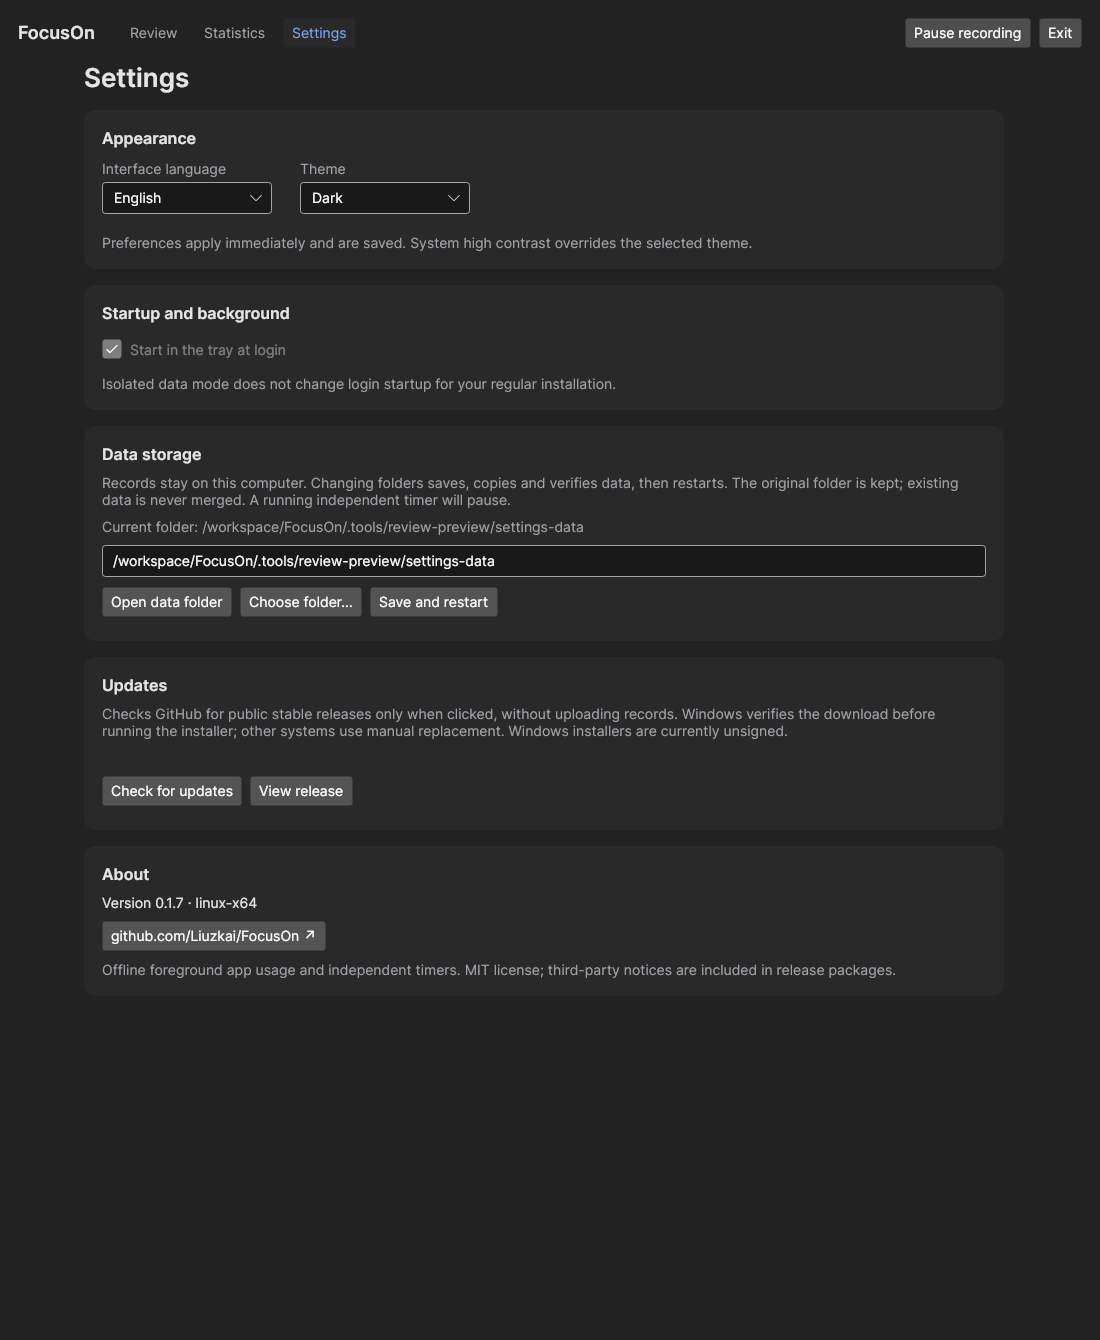
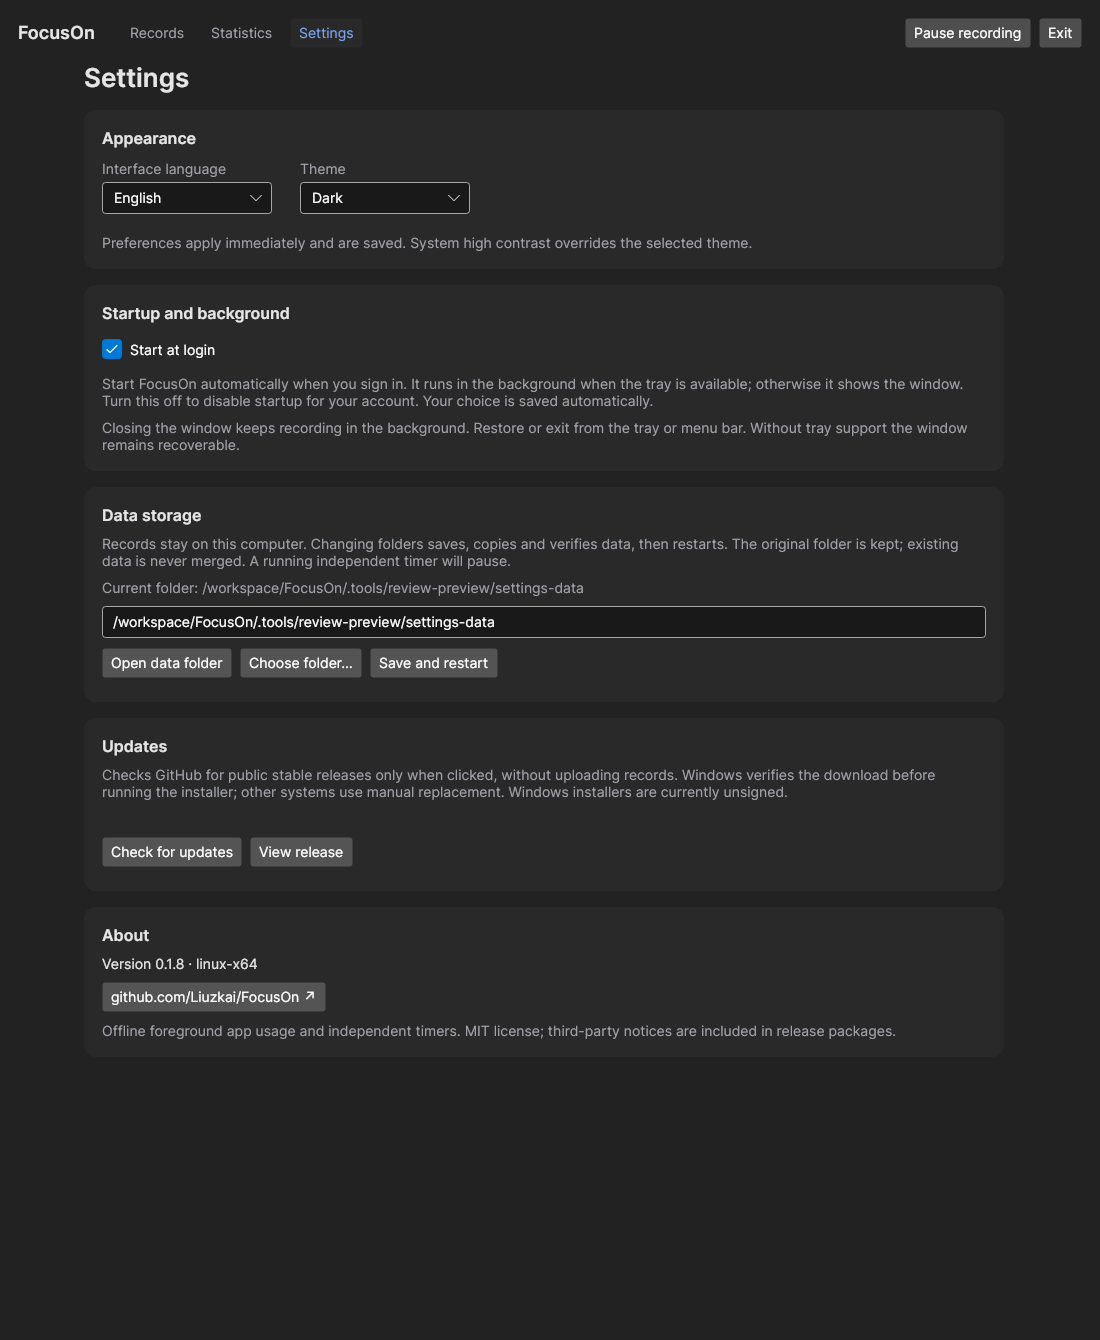
Rename Review to Records and clarify the saved startup option in Settings

diff --git a/src/FocusOn/MainWindow.Settings.cs b/src/FocusOn/MainWindow.Settings.cs
@@ -85,17 +85,19 @@ public partial class MainWindow
             foreach (var (button, key) in new (Button, string)[] { (SettingsPageButton,"配置"), (OpenDataButton,"打开数据目录"), (BrowseDataButton,"选择目录…"), (ChangeDataButton,"保存并重启"), (CheckUpdatesButton,"检查更新"), (ReleasePageButton,"查看 Release") }) button.Content = Localizer.Get(key);
             DownloadUpdateButton.Content = Localizer.Get(OperatingSystem.IsWindows() ? "下载并安装…" : "下载更新…");
             AppearanceNote.Text = Localizer.Get("配置立即生效并保存；系统高对比度优先于主题选择。");
+            StartupNote.Text = Localizer.Get("登录系统后自动启动 FocusOn；托盘可用时后台运行，否则显示窗口。关闭此选项可取消当前用户的自启，选择会自动保存。");
             BehaviorNote.Text = Localizer.Get(isolatedSettings ? "隔离数据模式不会更改正式环境的登录自启。" : "关闭窗口后继续后台记录；托盘或菜单栏可恢复窗口并退出。不支持托盘时保留可恢复窗口。");
             StorageNote.Text = Localizer.Get("记录仅保存在本机。更改目录会保存、复制并校验数据，然后重启；保留原目录，不合并已有数据。运行中的独立计时将暂停。");
             UpdateNote.Text = Localizer.Get("仅在点击时访问 GitHub 检查正式版本，不上传记录。Windows 下载校验后运行安装程序；其他系统手动替换应用。安装包当前未签名。");
             AboutNote.Text = Localizer.Get("离线前台软件使用记录与独立计时。MIT 许可；第三方声明随发布包提供。");
             VersionText.Text = Localizer.Get("版本 {0} · {1}", ReleaseUpdates.CurrentVersion.ToString(3), System.Runtime.InteropServices.RuntimeInformation.RuntimeIdentifier);
-            StartupCheckBox.Content = Localizer.Get("登录时启动到托盘"); StartupCheckBox.IsChecked = preferences.StartAtLogin; StartupCheckBox.IsEnabled = !isolatedSettings;
+            StartupCheckBox.Content = Localizer.Get("开机启动"); StartupCheckBox.IsChecked = preferences.StartAtLogin; StartupCheckBox.IsEnabled = !isolatedSettings;
             ThemePicker.SelectedIndex = preferences.Theme == "light" ? 1 : 0;
             CurrentDataDirectoryText.Text = dataDirectory is null ? Localizer.Get("数据目录尚未初始化") : Localizer.Get("当前目录：{0}", dataDirectory);
             if (string.IsNullOrWhiteSpace(DataDirectoryBox.Text)) DataDirectoryBox.Text = dataDirectory;
             DataDirectoryBox.Watermark = Localizer.Get("输入完整的新目录路径，或点击选择目录");
             BrowseDataButton.IsEnabled = ChangeDataButton.IsEnabled = OpenDataButton.IsEnabled = dataDirectory is not null;
+            AutomationProperties.SetName(StartupCheckBox, Localizer.Get("开机启动"));
             AutomationProperties.SetName(ThemePicker, Localizer.Get("主题")); AutomationProperties.SetName(DataDirectoryBox, Localizer.Get("数据保存"));
             if (updateStatusKey is not null) UpdateStatus.Text = Localizer.Get(updateStatusKey, updateStatusArguments);
             if (SettingsError.Text is { } error) SettingsError.Text = Localizer.Translate(error);

diff --git a/src/FocusOn/MainWindow.axaml.cs b/src/FocusOn/MainWindow.axaml.cs
@@ -188,7 +188,7 @@ public partial class MainWindow : Window
         catch (Exception error)
         {
             if (stopped || requestedDate != selectedDate || requestedRangeVersion != rangeVersion) return;
-            StatusText.Text = Localizer.Get("回看更新失败"); ShowWarning(Localizer.Get("无法更新回看：{0}。已显示的记录可能不是最新。", Localizer.Translate(error.Message)));
+            StatusText.Text = Localizer.Get("记录列表更新失败"); ShowWarning(Localizer.Get("无法更新记录列表：{0}。已显示的记录可能不是最新。", Localizer.Translate(error.Message)));
         }
         finally
         {
@@ -324,9 +324,9 @@ public partial class MainWindow : Window
                 (TodayButton,"今天"), (ExitButton,"退出"), (StartTimerButton,"开始计时"), (StopTimerButton,"停止"),
                 (DurationButton,"时长"), (GroupsButton,showGroups ? "时段 ⊟" : "时段 ⊞"),
                 (ResetDayButton,"重置"), (ClearRangeButton,"清除范围"), (DeleteDayButton,"删除所选日期") }) pair.Control.Content = Localizer.Get(pair.Text);
-            ReviewPageButton.Content = Localizer.Get("回看"); StatisticsPageButton.Content = Localizer.Get("统计"); StatisticsView.ApplyLanguage(); ApplySettingsLanguage();
+            ReviewPageButton.Content = Localizer.Get("记录"); StatisticsPageButton.Content = Localizer.Get("统计"); StatisticsView.ApplyLanguage(); ApplySettingsLanguage();
             foreach (var pair in new (Control Control, string Text)[] { (PreviousDayButton,"前一天"), (NextDayButton,"后一天"),
-                (ViewDatePicker,"回看日期"), (TimerTitleBox,"计时标题"), (LanguagePicker,"界面语言"), (TotalsScrollViewer,"全天软件汇总"), (RangePicker,"时间范围"),
+                (ViewDatePicker,"记录日期"), (TimerTitleBox,"计时标题"), (LanguagePicker,"界面语言"), (TotalsScrollViewer,"全天软件汇总"), (RangePicker,"时间范围"),
                 (ZoomInButton,"放大时间线"), (ZoomOutButton,"缩小时间线"), (SearchBox,"搜索时间范围内的软件或窗口标题") })
                 AutomationProperties.SetName(pair.Control, Localizer.Get(pair.Text));
             TimerTitleBox.Watermark = Localizer.Get("输入标题，开始独立计时"); SearchBox.Watermark = Localizer.Get("搜索时间范围内的软件或窗口标题"); TodayRangeItem.Content = Localizer.Get("今天");

diff --git a/src/FocusOn.Core/Localizer.cs b/src/FocusOn.Core/Localizer.cs
@@ -64,6 +64,12 @@ public static class Localizer
         ["输入完整的新目录路径，或点击选择目录"] = "Enter an absolute new folder path, or choose a folder",
         ["选择目录…"] = "Choose folder…",
         ["无法启动，请手动打开 FocusOn：{0}"] = "Unable to start. Please reopen FocusOn manually: {0}",
+        ["记录"] = "Records",
+        ["记录日期"] = "Record date",
+        ["记录列表更新失败"] = "Unable to refresh records",
+        ["无法更新记录列表：{0}。已显示的记录可能不是最新。"] = "Unable to refresh records: {0}. Displayed records may be out of date.",
+        ["开机启动"] = "Start at login",
+        ["登录系统后自动启动 FocusOn；托盘可用时后台运行，否则显示窗口。关闭此选项可取消当前用户的自启，选择会自动保存。"] = "Start FocusOn automatically when you sign in. It runs in the background when the tray is available; otherwise it shows the window. Turn this off to disable startup for your account. Your choice is saved automatically.",
         ["配置"] = "Settings",
         ["外观"] = "Appearance",
         ["主题"] = "Theme",

diff --git a/README.md b/README.md
@@ -30,7 +30,7 @@ This preview shows the native Linux interface with synthetic records; it does no
 
 ## Statistics preview
 
-The **[v0.1.6 draft](https://github.com/Liuzkai/FocusOn/releases/tag/untagged-29ffa82936509d03290e)** adds a separate Statistics page with a dark donut chart, rounded duration bars, app trend lines and a complete app list. Review and Statistics share recording pause and Exit controls; v0.1.7 moves the language selector into Settings. Switching pages keeps recording and independent timers running, and preserves the review's zoom and selection.
+The **[v0.1.6 draft](https://github.com/Liuzkai/FocusOn/releases/tag/untagged-29ffa82936509d03290e)** adds a separate Statistics page with a dark donut chart, rounded duration bars, app trend lines and a complete app list. Records and Statistics share recording pause and Exit controls; v0.1.7 moves the language selector into Settings. Switching pages keeps recording and independent timers running, and preserves the review's zoom and selection.
 
 - **Multiple days:** choose inclusive start/end dates, or Last 7 / Last 30 days. Ranges support up to 366 dates, including empty days in the daily average.
 - **Single-day period:** choose a local date and HH:mm start/end, such as 09:30–12:30. Use 24:00 for the day end or Whole day. Apply filters to update the charts; the applied scope is shown separately from edits.
@@ -43,7 +43,7 @@ Native Linux preview with synthetic records, not personal activity. [Single-day 
 
 ## Settings, themes, Windows installation and updates
 
-The v0.1.7 feature adds **Settings** with saved English/Chinese and **Light / Dark** choices, a login startup switch, the current data folder and a folder shortcut. System high contrast overrides either theme. About is the last card and shows the actual build version, architecture and GitHub link. Navigation keeps recording/timers and review/statistics scope intact.
+The v0.1.7 feature adds **Settings** with saved English/Chinese and **Light / Dark** choices, a **Start at login** switch, the current data folder and a folder shortcut. System high contrast overrides either theme. About is the last card and shows the actual build version, architecture and GitHub link. From v0.1.8, the history page is named **Records** (记录). **Start at login** is visible under Settings → Startup and background, saves immediately and controls current-user startup. It starts after sign-in, hiding only when the tray is available. Navigation keeps recording/timers and records/statistics scope intact.
 
 ![FocusOn Settings in Light](docs/images/focuson-settings-light.png)
 
@@ -55,7 +55,7 @@ Windows x64/ARM64 **Setup.exe** packages install per user with Start menu/option
 
 **Check for updates** is explicit and contacts only GitHub's public stable releases without uploading records. Drafts/prereleases and versions no newer than the installed build are ignored. Windows validates the exact OS/architecture asset, official URL, size and SHA256 before saving/exiting and launching Setup. Linux/macOS use the matching official download and manual replacement. Nothing is silently downloaded or installed. A development build ahead of the latest public release correctly reports no newer stable version.
 
-The **[v0.1.7 draft](https://github.com/Liuzkai/FocusOn/releases/tag/untagged-b45cf62abc599a74a3f8)** is verified from source `9760d1a` through the [six-native-target build](https://github.com/Liuzkai/FocusOn/actions/runs/38503521655). All six targets pass160 tests each; native Windows x64/ARM64 install, installed-app save/exit, reinstall and uninstall checks pass. Twelve archive/installer/checksum assets are uploaded and downloaded with SHA256 verification. v0.1.5 remains public/latest and v0.1.6 remains its original statistics draft. Existing tags, attachments and notices are preserved; unsigned Mac validation bundles are excluded from Release.
+The **[v0.1.7 draft](https://github.com/Liuzkai/FocusOn/releases/tag/untagged-b45cf62abc599a74a3f8)** is verified from source `9760d1a` through the [six-native-target build](https://github.com/Liuzkai/FocusOn/actions/runs/38503521655). All six targets pass160 tests each; native Windows x64/ARM64 install, installed-app save/exit, reinstall and uninstall checks pass. Twelve archive/installer/checksum assets are uploaded and downloaded with SHA256 verification. v0.1.8 is being prepared as a separate wording update; v0.1.5 remains public/latest and the earlier drafts retain their original packages. Existing tags, attachments and notices are preserved; unsigned Mac validation bundles are excluded from Release.
 
 ## Features
 

diff --git a/Agent.md b/Agent.md
@@ -127,6 +127,8 @@ $focusOnQaData = Join-Path $env:LOCALAPPDATA 'FocusOn-QA\data'
 
 ## 7. 当前进度与接续事项
 
+**最新 22 票（2026-10-14，实施中）：**“回看 / Review”导航更名“记录 / Records”，关联日期/列表更新文案同步；配置既有自启开关明确为“开机启动 / Start at login”并补充当前用户登录后的启动/托盘/保存说明。沿用既有真实注册、持久化和隔离保护，不增加重复设置或系统服务。计划 v0.1.8 草稿，保留所有旧版本。详见22票。
+
 **最新 21 票（2026-10-14，工程关闭）：**同一 main 增加配置页（语言移入、保存 Light/Dark/系统高对比度优先、登录自启开关、打开/修改数据目录、末尾 About 真版本/架构/GitHub）；仅主动检查正式更新，Windows 校验下载后保存退出安装，Linux/Mac 手动替换。目录迁移空目录/双锁、SQLite Backup 包含 WAL、integrity_check、偏好文件 SHA、原目录保留、原默认目录原子指针、隔离启动不改正式路径。新 Windows x64/ARM64 Inno6.5.4 安装器及原生安装/启动/再次安装/卸载/数据保留门禁；无 Windows 签名，Mac 信任限制沿用。已交付 [v0.1.7 草稿](https://github.com/Liuzkai/FocusOn/releases/tag/untagged-b45cf62abc599a74a3f8)：不可变源 `9760d1af0ffd9065572045cf26654668d0cabb54` / 标签对象 `a8416ef0c4031855d81915be183cdebab13a3c18`，[构建](https://github.com/Liuzkai/FocusOn/actions/runs/38503521655) Success，六目标各160测试、原生/包检查通过，Windows安装/实际程序/再次安装/卸载/记录保留通过，12附件下载SHA通过。现有 v0.1.5 公开/latest 与 v0.1.6 草稿、所有旧标签/附件和原许可保留；新增Inno原许可。Windows安装器未签名；Mac未Developer ID/公证/staple（凭据缺失），只限7天验证产物、未附正式Release。08/整体规格仍开放。详细证据见21票/ADR0008/docs/windows.md。
 
 **最新 20 票（2026-10-13）：**新增参考深色环形/圆角柱状/折线的统计页：默认近7天、多日首尾包含/快捷30天/最多366天，单日HH:mm时段及24:00日结束。仅前台Usage参与，原始分配端点保证精确裁切/分桶/总和，保留删除与本地DST规则，不迁移数据。两页切换保留回看选中/视窗并继续采集/独立计时；两语、统一ISO日期、窄布局、高对比度、线型/键盘和跟随指针详情。114核心/平台+34UI回归与真实Linux合成记录鼠标检查通过，三张截图加入英文README。已公开v0.1.5原源码/资产保持；统计版本计划为v0.1.6草稿。不可变源码 `161c21f5b48e96701d812b2d80cf918b75acde56` / v0.1.6 标签对象 `d11531a73290673fcd583a3cb328adc2e6dae6e1`；[构建](https://github.com/Liuzkai/FocusOn/actions/runs/38378437157) Success，六目标各148测试、原生与包校验通过。[草稿](https://github.com/Liuzkai/FocusOn/releases/tag/untagged-29ffa82936509d03290e) 八个Windows/Linux x64/ARM64附件上传下载校验通过；全部旧Release元数据/附件/标签与v0.1.5公开原资产匹配。Mac两目标为ad-hoc-validation，未Developer ID/公证/staple，临时7天验证产物，不上传正式Release。20工程票关闭，08/整体规格与设备验收仍开放。

diff --git a/docs/usage.md b/docs/usage.md
@@ -76,7 +76,11 @@ $qaData = Join-Path $env:LOCALAPPDATA 'FocusOn-QA\data'
 ## 配置页面（v0.1.7）
 
 - “配置”集中管理中文/English 与 Dark/Light，立即生效并保存；系统高对比度优先。切页不影响采集、独立计时和原有回看选中/视窗。
-- “登录时启动到托盘”默认启用，可关闭；隔离 `--data-dir` 模式不修改正式自启。系统托盘缺失时仍保留可恢复窗口。
+- “开机启动”（English: Start at login）默认启用，可关闭，选择立即保存；当前用户登录系统后自动启动，托盘可用时后台运行，否则显示窗口。隔离 `--data-dir` 模式不修改正式自启。系统托盘缺失时仍保留可恢复窗口。
 - “数据保存”显示当前目录，可打开、输入完整新路径或通过系统选择目录，再点击“保存并重启”。目标必须为空，且与原目录不互相包含。确认后先保存、复制并校验 SQLite/配置，再重启；原目录保留为备份，独立计时暂停，不合并已有数据。失败仍使用原目录。正式默认目录内的 data-location.json 指向新的目录；隔离模式仅重启参数改变，不写正式指针。旧版不能识别新指针，勿运行旧版向备份写入后期待自动合并。备份前明确退出，并保留指针及其目标目录。
 - “更新”仅点击时检查 GitHub 正式稳定版，不上传记录，不自动下载/安装。草稿不可更新；当前开发版本高于正式版时显示无可用更新。Windows 显式确认后下载并核对官方地址/大小/SHA256，再保存退出并启动安装器；其他系统从对应 Release 手动替换应用。Windows 安装器当前未签名，校验和不等于发行者签名。取消安装后手动重新打开应用。
 - 最后的“关于”显示实际版本、进程平台架构、GitHub 地址和许可说明。更多安装说明见 [Windows](windows.md)。
+
+## v0.1.8 页面名称
+
+原“回看 / Review”页更名为“记录 / Records”，记录日期、列表更新提示同步改名；历史记录和计时行为不变。配置 → 启动与后台运行中的“开机启动”控制当前用户登录后启动。隔离测试模式仍显示开关，但禁用系统自启修改并注明原因。

diff --git a/.scratch/focuson/issues/22-records-navigation-and-startup-label.md b/.scratch/focuson/issues/22-records-navigation-and-startup-label.md
@@ -1,0 +1,19 @@
+# 22: Records navigation and visible startup option
+
+**What to build:** Rename the Review/回看 navigation to Records/记录 and explicitly expose 开机启动 / Start at login in Settings, retaining its working saved per-user registration behavior.
+
+**Blocked by:** 21 (closed)
+
+**Status:** ready-for-agent
+
+## Acceptance criteria
+
+- Records/记录 navigation, date accessibility labels and list-refresh feedback consistently use the new page name. Preserve recorder/history/timer behavior and recorded user text.
+- Clearly labeled startup option and sign-in/tray description in Settings. Existing preference defaults, save rollback and registration enable/disable remain intact; isolated QA mode does not affect production startup.
+- Build/existing regression/native bilingual UI checks, current Settings screenshots/English README, fresh immutable v0.1.8 draft. Preserve all earlier releases/tags/data/notices. Physical login/device/Mac trust acceptance remains08.
+
+## Comments
+
+- 2026-10-14: User requests Records/记录 and startup option. Existing v0.1.7 already has a saved login-to-tray checkbox wired to platform registration; clarify its label and actual sign-in behavior rather than creating a machine-wide service or a duplicate preference. No backend/data/registration schema change is needed.
+
+- 2026-10-14: Navigation and date/accessibility/list-refresh feedback now Records/记录; Settings checkbox reads Start at login/开机启动 with sign-in/background/window-fallback and immediate-saving guidance. Existing registration enable/disable/save rollback/isolation behavior retained. Local124 core/platform +36 UI regressions and18 publication guards pass. Real native synthetic Linux UI verifies both names in both languages, visibly enabled normal-mode startup control and off/on preference persistence with restoration; its injected callbacks never alter system startup. Updated native screenshots/English README/usage. No new tests mirroring the wording change. Six-native-target v0.1.8 draft pending; actual sign-in/device acceptance remains08.
